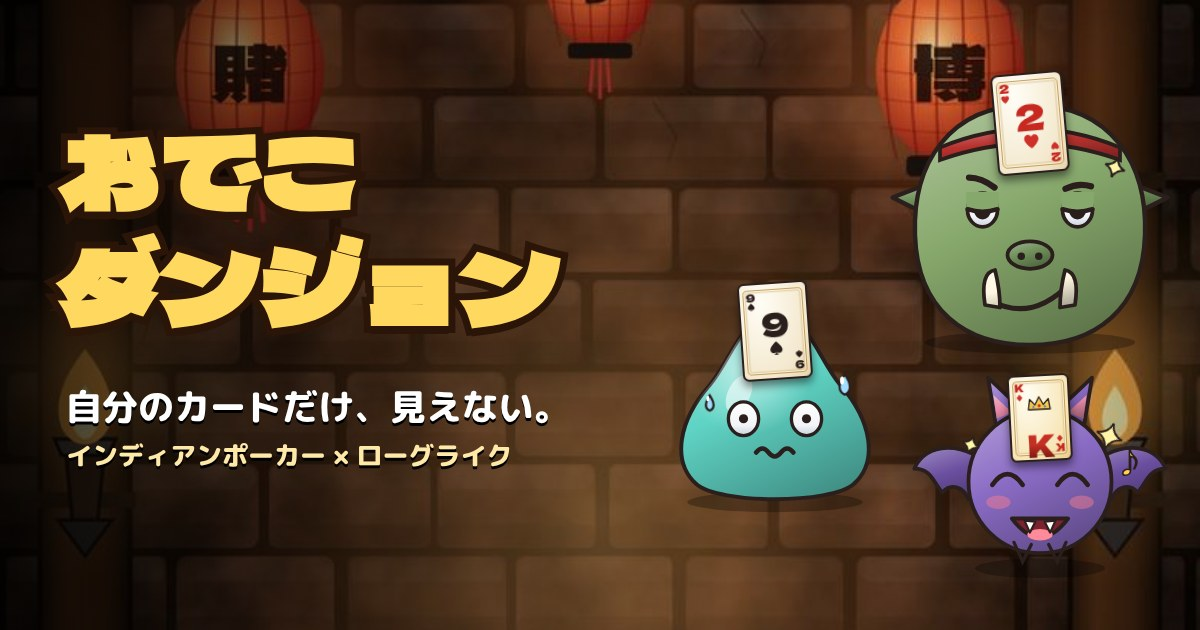
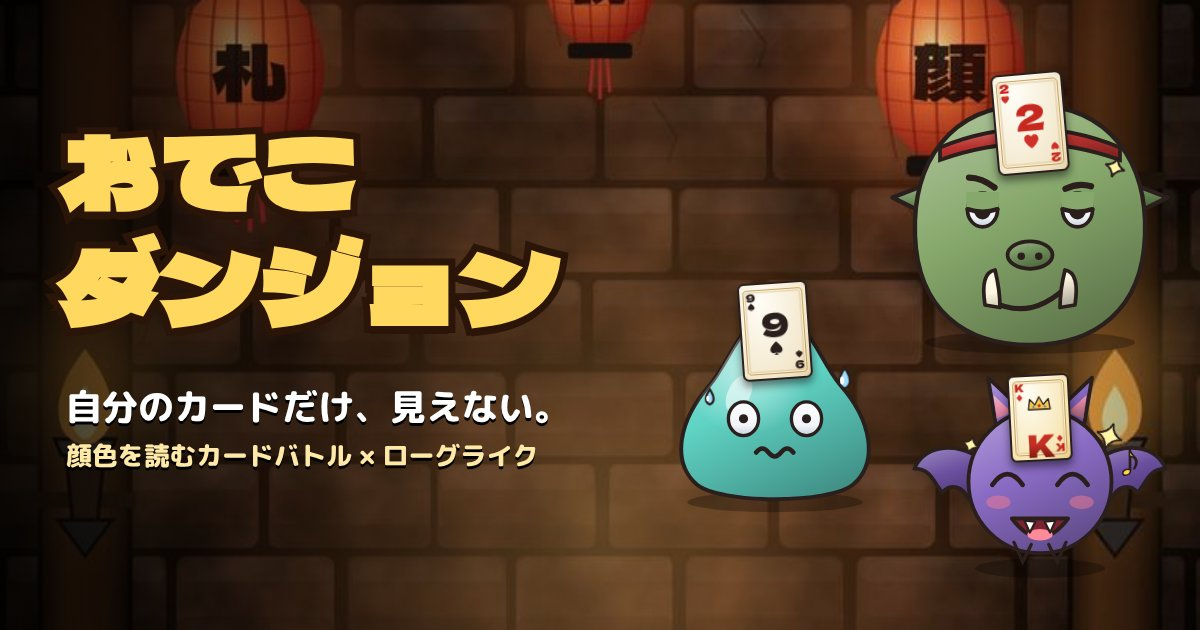
ギャンブルを連想させる言葉を外す（ゲームの改修に合わせて）
Claude-Session: https://claude.ai/code/session_01LWtf1RF73Tx13qnX6ReeY5

diff --git a/index.html b/index.html
@@ -3,10 +3,10 @@
 <head>
 <meta charset="utf-8">
 <meta name="viewport" content="width=device-width,initial-scale=1">
-<title>おでこダンジョン｜インディアンポーカー×ローグライク</title>
-<meta name="description" content="自分のカードだけ見えない。敵の顔色とクセを読んで「勝負」か「降りる」かを決める、インディアンポーカーで戦うローグライク。iPhone向け・広告なし・課金なし。">
+<title>おでこダンジョン｜顔色を読むカードバトル×ローグライク</title>
+<meta name="description" content="自分のカードだけ見えない。敵の顔色とクセを読んで「攻める」か「かわす」かを決める、おでこのカードで戦うローグライク。iPhone向け・広告なし・課金なし。">
 <meta property="og:title" content="おでこダンジョン">
-<meta property="og:description" content="自分のカードだけ、見えない。インディアンポーカー×ローグライク。">
+<meta property="og:description" content="自分のカードだけ、見えない。顔色を読むカードバトル×ローグライク。">
 <meta property="og:image" content="https://mtddzd5vw2-gif.github.io/odeko/img/og.jpg">
 <meta property="og:type" content="website">
 <meta name="twitter:card" content="summary_large_image">
@@ -24,15 +24,15 @@
 </header>
 <main>
   <div class="shots">
-    <img src="img/shot1.jpg" alt="スライムとの勝負"><img src="img/shot2.jpg" alt="ウソつきのオーク親分"><img src="img/shot3.jpg" alt="倍がけで大勝利"><img src="img/shot4.jpg" alt="九尾の狐のボス戦"><img src="img/shot5.jpg" alt="お店"><img src="img/shot6.jpg" alt="冒険の結果">
+    <img src="img/shot1.jpg" alt="スライムとの戦い"><img src="img/shot2.jpg" alt="ウソつきのオーク親分"><img src="img/shot3.jpg" alt="全力で大勝利"><img src="img/shot4.jpg" alt="九尾の狐のボス戦"><img src="img/shot5.jpg" alt="4人の挑戦者"><img src="img/shot6.jpg" alt="宝箱">
   </div>
   <section>
     <h2>どんなゲーム？</h2>
-    <p>おたがいのおでこにトランプを1枚。<b>敵のカードは見えるけど、自分のカードは見えない。</b>インディアンポーカーのルールで戦うローグライクです。</p>
+    <p>おたがいのおでこにトランプを1枚。<b>敵のカードは見えるけど、自分のカードは見えない。</b>おでこのカードの数字を読み合って戦うローグライクです。</p>
     <p>敵にはあなたのカードが見えています。ニヤニヤしていたら、あなたのカードは弱いのかも。冷や汗をかいていたら、強いのかも。でも、その顔はウソかもしれない。</p>
     <ul>
-      <li><b>勝負・倍がけ・降りる</b>の3つから選ぶだけ。1回の冒険は15〜20分</li>
-      <li>正直者、ウソつき、あまのじゃく、ポーカーフェイス…<b>くせ者だらけの21体</b></li>
+      <li><b>攻める・全力・かわす</b>の3つから選ぶだけ。1回の冒険は15〜20分</li>
+      <li>正直者、ウソつき、あまのじゃく、無表情…<b>くせ者だらけの21体</b></li>
       <li>自分の山札を数えて、残りのカードから見当をつける</li>
       <li>秘宝と特殊カードで、毎回ちがう山札に育つ</li>
       <li>挑戦者は4人。それぞれスキルを持っていて、負けても経験値がたまって1人ずつ解放されていく</li>
@@ -40,16 +40,16 @@
   </section>
   <section>
     <h2>4人の挑戦者</h2>
-    <h3>見習い博徒</h3><p>スキル「手鏡」で、自分のカードをのぞける。迷ったときの味方。</p>
+    <h3>見習い冒険者</h3><p>スキル「手鏡」で、自分のカードをのぞける。迷ったときの味方。</p>
     <h3>占い師</h3><p>勝率メーターで確率がわかる。スキル「千里眼」で敵のウソを見抜く。</p>
-    <h3>番長</h3><p>HPが多いタフな男。降りるのは大きらい。スキル「にらみ」で敵を逃がさない。</p>
-    <h3>イカサマ師（制覇すると解放）</h3><p>スキル「すり替え」で、自分と敵のカードを入れ替えるイカサマの名人。</p>
+    <h3>番長</h3><p>HPが多いタフな男。かわすのは大きらい。スキル「にらみ」で敵を逃がさない。</p>
+    <h3>手品師（制覇すると解放）</h3><p>スキル「すり替え」で、自分と敵のカードを入れ替える手品の名人。</p>
   </section>
   <section>
     <h2>製品情報（メディア・配信者の方へ）</h2>
     <table>
       <tr><th>タイトル</th><td>おでこダンジョン</td></tr>
-      <tr><th>ジャンル</th><td>インディアンポーカー×ローグライク（カードゲーム）</td></tr>
+      <tr><th>ジャンル</th><td>顔色を読むカードバトル×ローグライク</td></tr>
       <tr><th>対応機種</th><td>iPhone（iOS 15以降）</td></tr>
       <tr><th>価格</th><td>300円（買い切り・広告なし・アプリ内課金なし）</td></tr>
       <tr><th>配信地域</th><td>日本</td></tr>

diff --git a/streaming.html b/streaming.html
@@ -19,10 +19,10 @@
 </ul>
 <h2>配信のネタに</h2>
 <ul>
-<li>視聴者に「勝負か、降りるか」をコメントで決めてもらう</li>
+<li>視聴者に「攻めるか、かわすか」をコメントで決めてもらう</li>
 <li>手鏡を使わずに、顔だけで読み切る縛り</li>
 <li>読み的中率○％以上をめざす</li>
-<li>クリアするたびに賭け金レベルを上げていく</li>
+<li>クリアするたびに危険度を上げていく</li>
 </ul>
 <h2>ご遠慮いただきたいこと</h2>
 <ul>
